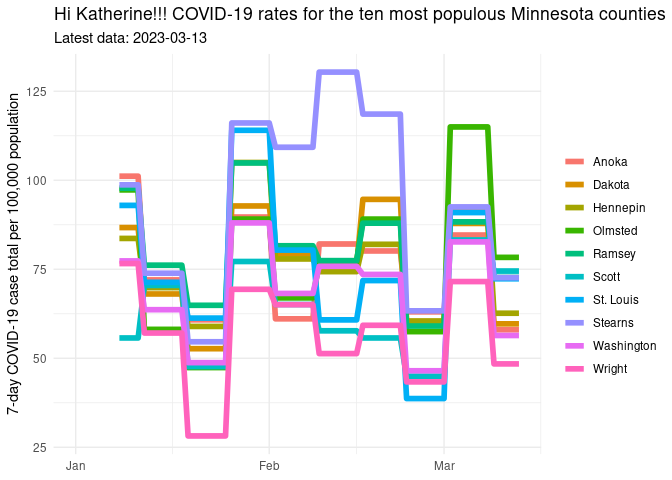
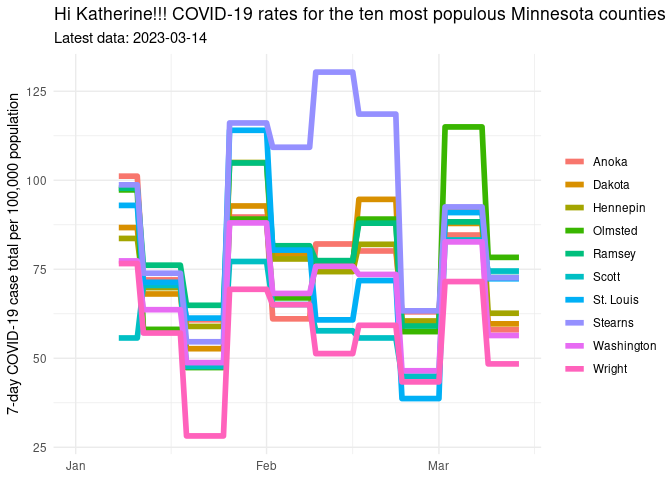
Updated report

diff --git a/README.md b/README.md
@@ -1,7 +1,7 @@
 Minnesota COVID Report
 ================
 
-Report last run: 2023-03-14 22:07:52
+Report last run: 2023-03-15 22:07:56
 
 ## Introduction
 
@@ -105,25 +105,25 @@ rate_data %>%
   knitr::kable()
 ```
 
-| county                   | state        |   pop | covid_rate |
-|:-------------------------|:-------------|------:|-----------:|
-| Garfield                 | Nebraska     |  1969 |       1219 |
-| Mineral                  | Colorado     |   769 |       1170 |
-| Hodgeman                 | Kansas       |  1794 |        669 |
-| Lamb                     | Texas        | 12893 |        667 |
-| Rolette                  | North Dakota | 14176 |        642 |
-| Bethel Census Area       | Alaska       | 18386 |        506 |
-| Menifee                  | Kentucky     |  6489 |        462 |
-| Sioux                    | North Dakota |  4230 |        426 |
-| Clark                    | Kansas       |  1994 |        401 |
-| Thurston                 | Nebraska     |  7224 |        388 |
-| Gove                     | Kansas       |  2636 |        379 |
-| Traverse                 | Minnesota    |  3259 |        368 |
-| Northwest Arctic Borough | Alaska       |  7621 |        367 |
-| Tazewell                 | Virginia     | 40595 |        362 |
-| Bennington               | Vermont      | 35470 |        361 |
-| Campbell                 | Tennessee    | 39842 |        356 |
-| Bland                    | Virginia     |  6280 |        350 |
-| Nance                    | Nebraska     |  3519 |        341 |
-| Kusilvak Census Area     | Alaska       |  8314 |        325 |
-| Apache                   | Arizona      | 71887 |        320 |
+| county      | state        |   pop | covid_rate |
+|:------------|:-------------|------:|-----------:|
+| Garfield    | Nebraska     |  1969 |       1219 |
+| Mineral     | Colorado     |   769 |       1170 |
+| Hodgeman    | Kansas       |  1794 |        669 |
+| Lamb        | Texas        | 12893 |        667 |
+| Rolette     | North Dakota | 14176 |        642 |
+| Menifee     | Kentucky     |  6489 |        462 |
+| Sioux       | North Dakota |  4230 |        426 |
+| Clark       | Kansas       |  1994 |        401 |
+| Thurston    | Nebraska     |  7224 |        388 |
+| Gove        | Kansas       |  2636 |        379 |
+| Traverse    | Minnesota    |  3259 |        368 |
+| Bennington  | Vermont      | 35470 |        361 |
+| Campbell    | Tennessee    | 39842 |        356 |
+| Nance       | Nebraska     |  3519 |        341 |
+| Apache      | Arizona      | 71887 |        320 |
+| Hemphill    | Texas        |  3819 |        314 |
+| Stevens     | Kansas       |  5485 |        310 |
+| Benton      | Tennessee    | 16160 |        309 |
+| Benewah     | Idaho        |  9298 |        301 |
+| Charles Mix | South Dakota |  9292 |        291 |
